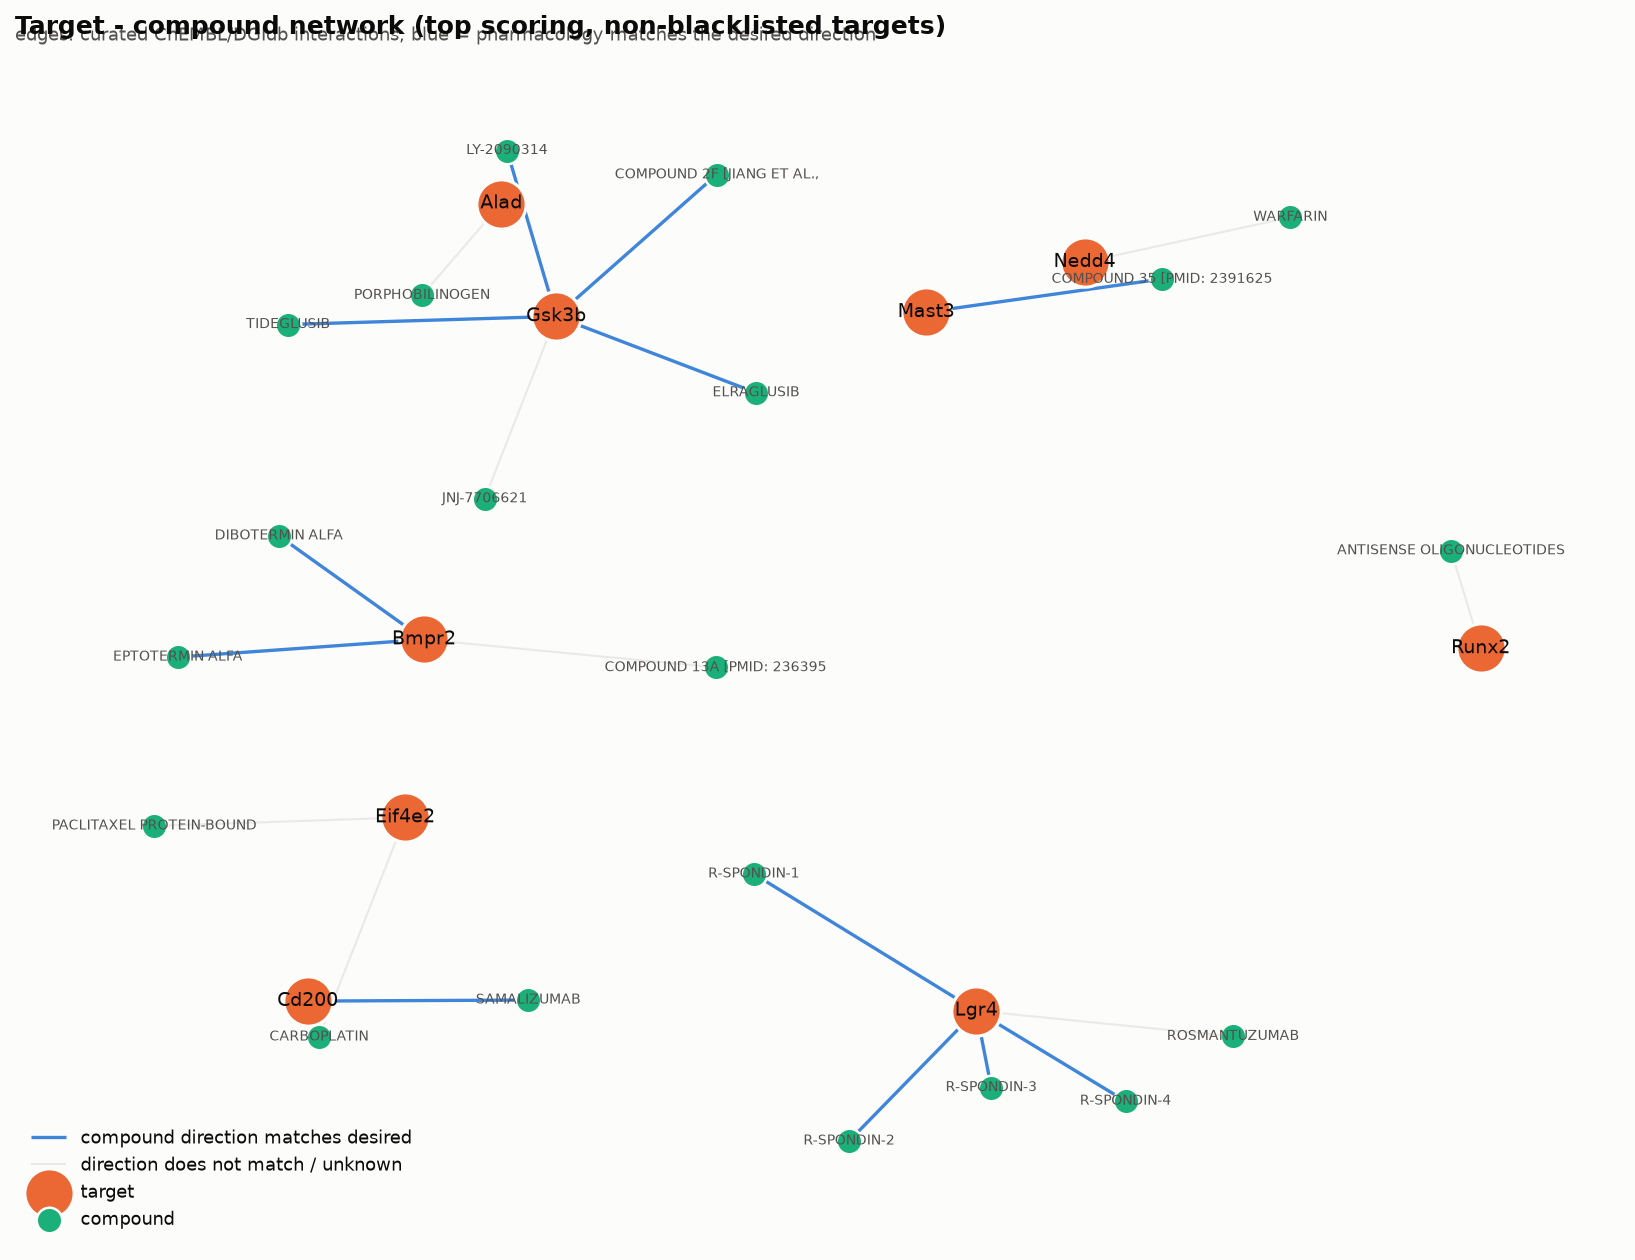
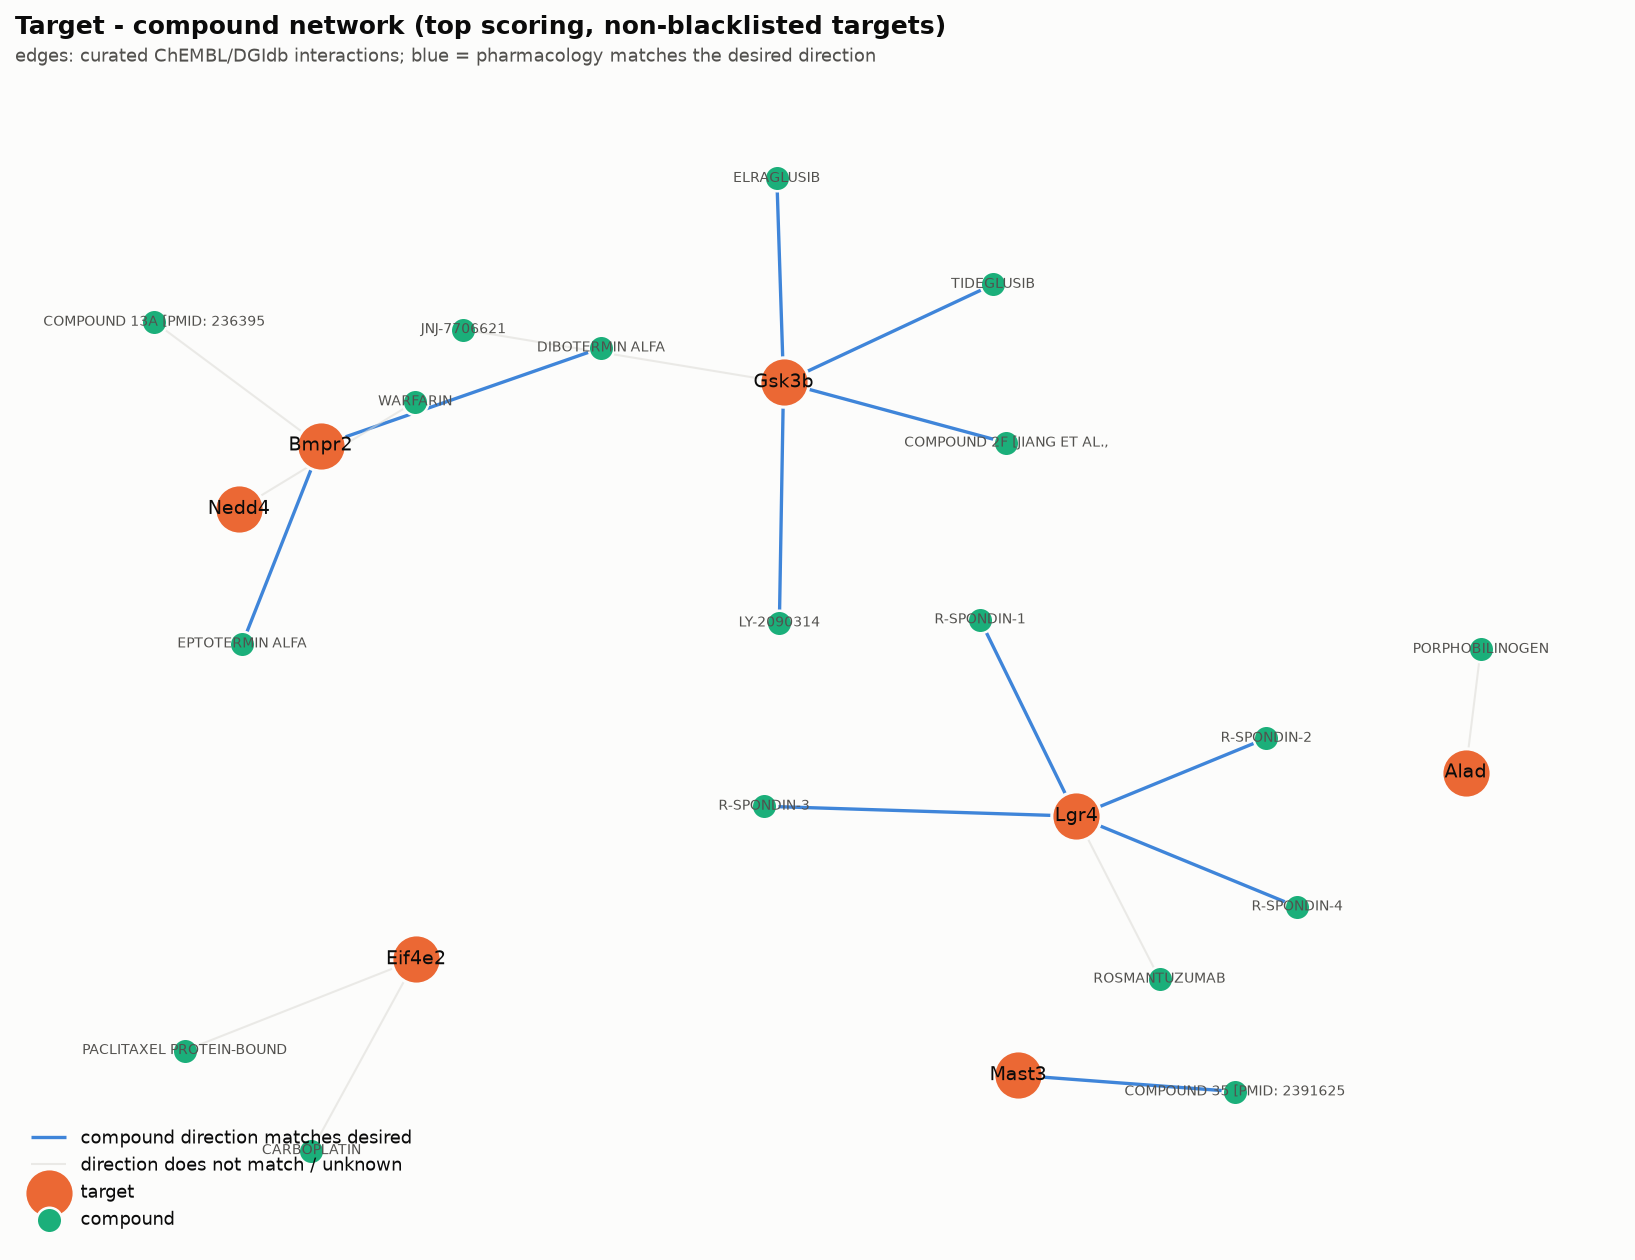
Exclude sort marker and excluded genes from the target-compound network
The network figure was drawing Cd200 and Runx2: Cd200 is the screen's own FACS
sort marker (knockout removes the epitope, so its effect is technical) and Runx2
is on the brief's excluded list. Both are filtered out of the scored outputs
already; the figure now applies the same filter. Also fixes title/subtitle
overlap in that figure.

Claude-Session: https://claude.ai/code/session_01Kjgd68DwDrYwRRANcugtRs

diff --git a/gp-discovery/pipeline/s13_plots.py b/gp-discovery/pipeline/s13_plots.py
@@ -144,7 +144,8 @@ def fig_network(df):
     if not f.exists():
         return
     c = pd.read_csv(f)
-    top = df[df.CRISPR_CAUSAL.fillna(False) & ~df.BLACKLIST].sort_values(
+    top = df[df.CRISPR_CAUSAL.fillna(False) & ~df.BLACKLIST
+             & ~df.EXCLUDED_OBVIOUS.fillna(False)].sort_values(
         "total_score", ascending=False).head(12).index
     c = c[c.mouse_gene.isin(top)]
     if c.empty:
@@ -178,9 +179,9 @@ def fig_network(df):
     nx.draw_networkx_labels(Gr, pos, {n: n for n in tg}, font_size=9, font_color=INK, ax=ax)
     nx.draw_networkx_labels(Gr, pos, {n: n for n in cp}, font_size=6.5, font_color=INK2, ax=ax)
     ax.set_title("Target - compound network (top scoring, non-blacklisted targets)",
-                 loc="left", color=INK)
-    ax.text(0, 1.005, "edges: curated ChEMBL/DGIdb interactions; blue = pharmacology matches the desired direction",
-            transform=ax.transAxes, fontsize=8.5, color=INK2)
+                 loc="left", color=INK, pad=22)
+    ax.text(0, 1.012, "edges: curated ChEMBL/DGIdb interactions; blue = pharmacology matches the desired direction",
+            transform=ax.transAxes, fontsize=8.5, color=INK2, va="bottom")
     ax.axis("off")
     ax.legend(loc="lower left", fontsize=8.5, scatterpoints=1)
     fig.tight_layout()
